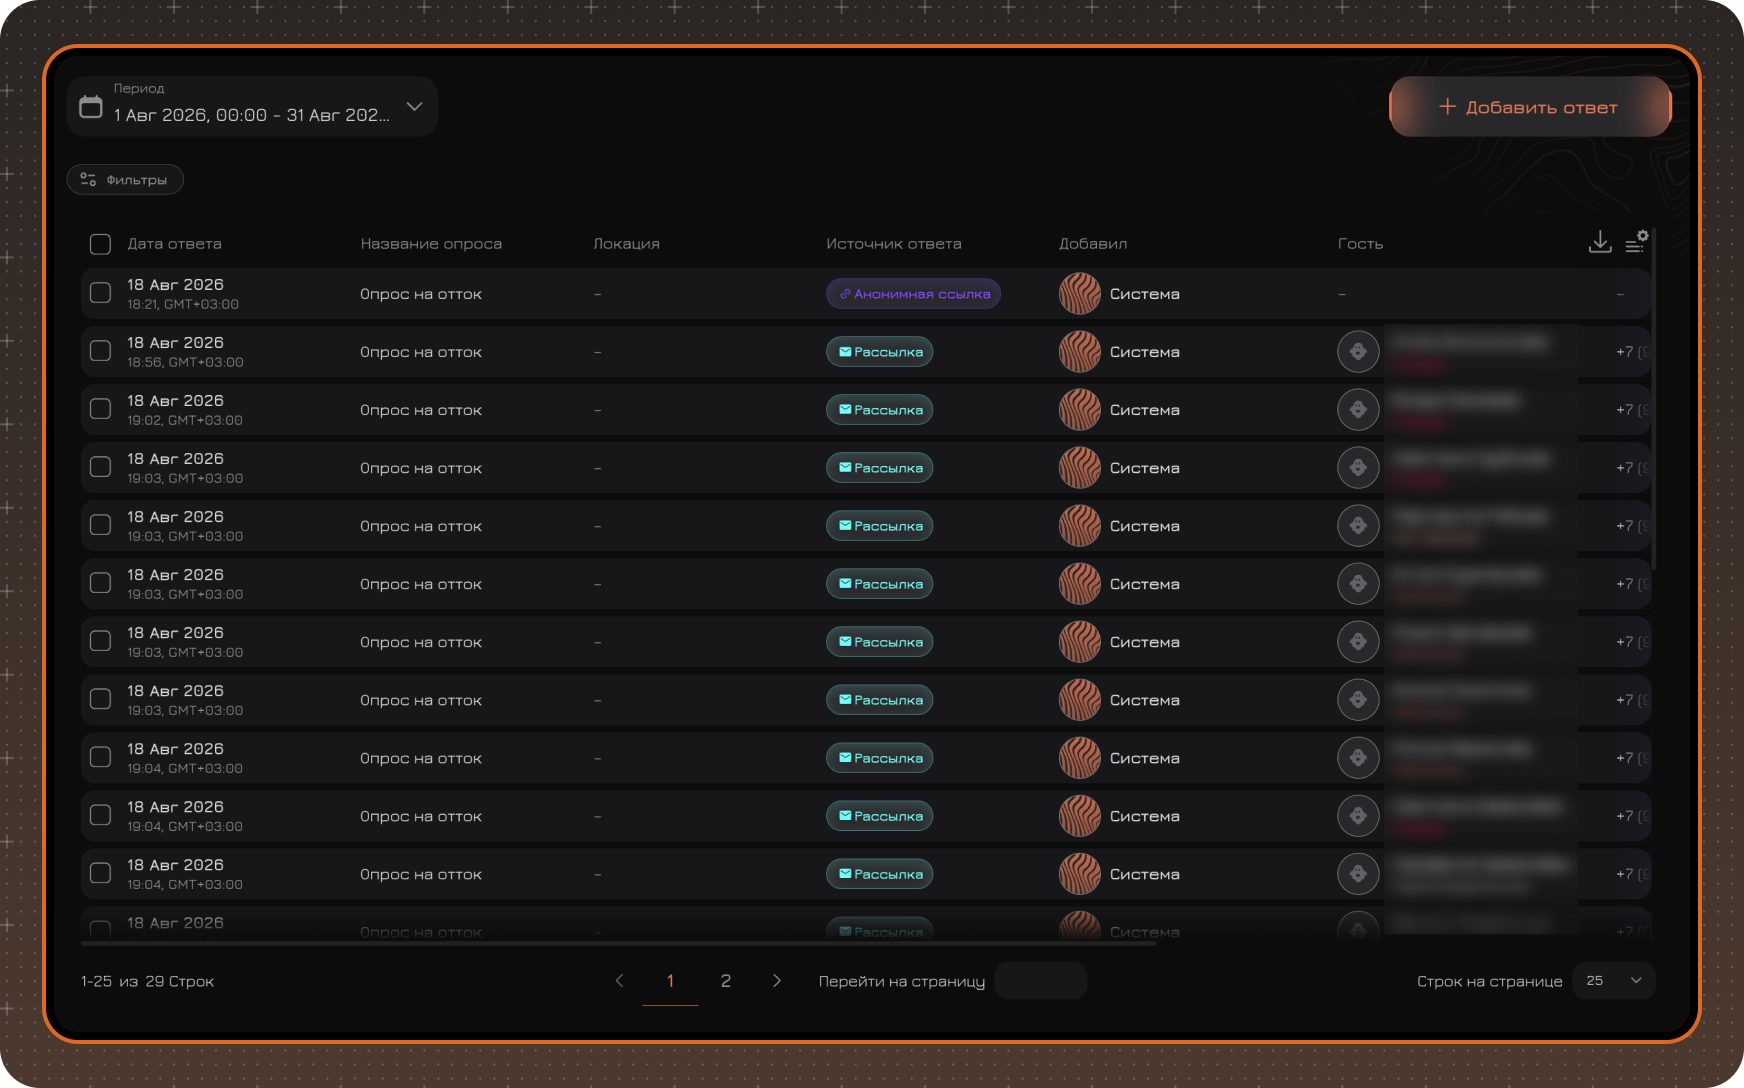
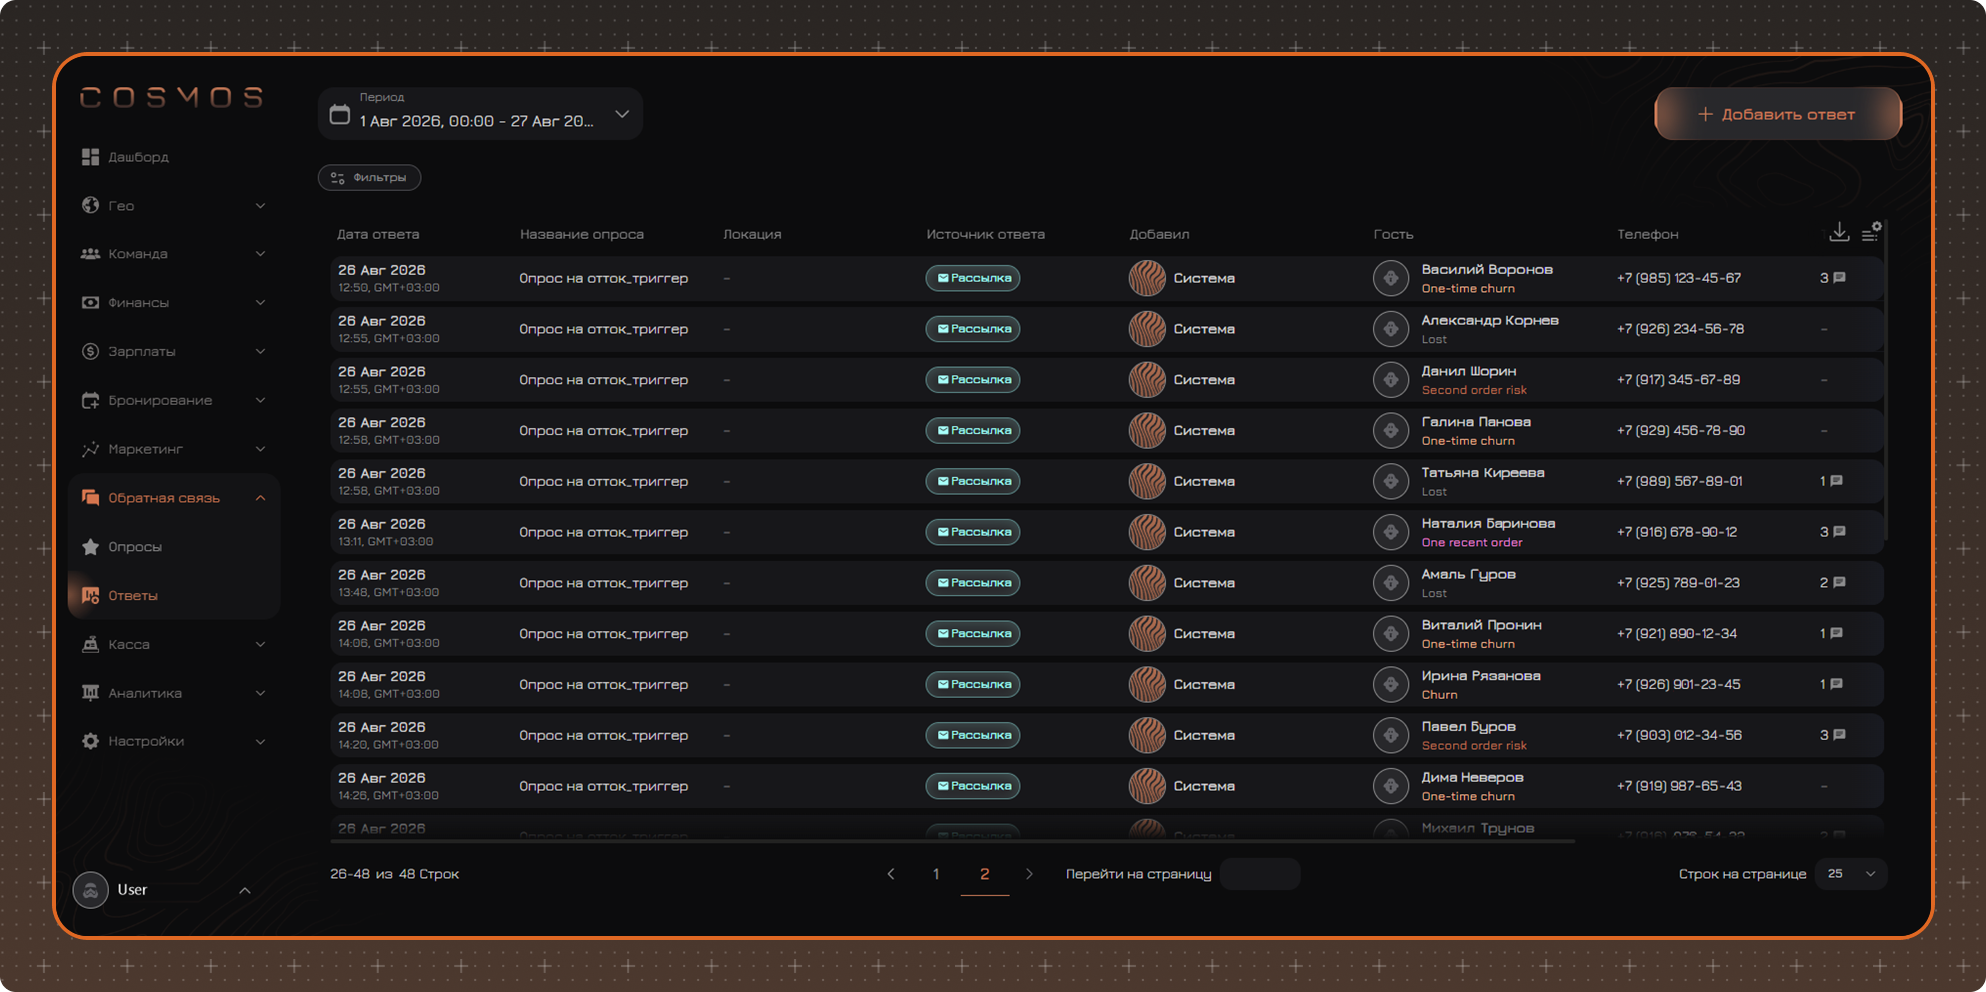
Feedback: колонки гостя и настройки таблицы в «Ответах» RU и EN (CIMP-293) (#88)

diff --git a/content/ru/feedback/responses/responses-info.md b/content/ru/feedback/responses/responses-info.md
@@ -15,35 +15,59 @@ updatedAt: 2026-08-24
 
 [[delimiter rows=1]]
 
-## Основные данные ответа
+## Настройки таблицы
 
-**В таблице могут отображаться следующие данные:**
+Для изменения набора отображаемых колонок нажмите кнопку настройки таблицы в правом верхнем углу.
 
-- **Номер ответа**
+В открывшейся панели можно:
+
+✔ Выбрать отображаемые колонки  
+✔ Изменить порядок колонок — перетащите колонку в списке за значок слева от ее названия  
+✔ Закрепить нужные колонки — нажмите на значок булавки справа от названия колонки. Закрепленные колонки перемещаются в начало таблицы  
+✔ Вернуть настройки по умолчанию с помощью команды **Сбросить к начальным значениям**
+
+![Настройки таблицы](/ru/images/surveys/responses/response-columns.png)
+
+[[delimiter rows=1]]
+
+По умолчанию в таблице отображаются следующие колонки:
+
 - **Дата ответа** — дата и время отправки ответа респондентом.
 - **Название опроса**
 - **Локация** — локация, связанная с ответом. Автоматически определяется для ответов из автоматической рассылки по триггеру `Закрытый чек`; в остальных случаях может отсутствовать.
 - **Источник ответа** — показывает, как ответ попал в систему: `Рассылка`, `Публичная ссылка` или `Введен вручную`.
-- **Канал** — канал доставки, если опрос отправлялся через рассылку. Для публичной ссылки и ручного ввода поле может быть пустым.
 - **Добавил** — для ручного ответа показывает сотрудника, который внес данные.
+- **Гость**
+- **Телефон**
 - **Текстовые ответы** — количество текстовых комментариев в ответе, включая текст в поле `Свой вариант`.
 - **Оценки** — оценки, оставленные в вопросах типа `Оценка`.
-- **Устройство** — `Мобильное` или `Компьютер`, в зависимости от устройства, с которого был отправлен ответ.
 
-**Для ответов, полученных после автоматической рассылки, могут отображаться:**
+Дополнительно можно включить следующие колонки. При включении они отображаются в таблице в соответствии с порядком колонок в настройках:
 
-- **Триггер** — событие, после которого была отправлена рассылка;
-- **Дата триггера** — дата и время события;
-- **Столы** — столы, связанные с событием;
-- **Обслужил** — сотрудники, обслуживавшие гостя.
+- **Ответ**
+- **Канал** — канал доставки, если опрос отправлялся через рассылку. Для публичной ссылки и ручного ввода поле может быть пустым.
+- **Триггер** — событие, после которого была отправлена рассылка.
+- **Дата триггера** — дата и время события.
+- **Столы** — столы, связанные с событием.
+- **Обслуживал** — сотрудники, обслуживавшие гостя.
+- **E-mail**
+- **Пол**
+- **Дата рождения**
+- **Любимая локация**
+- **Последний визит**
+- **Всего денег**
+- **Всего чеков**
+- **Последний чек**
+- **Средний чек**
+- **Средний чек в час**
+- **Карта лояльности**
+- **Скидка**
+- **Дата регистрации в программе лояльности**
+- **Устройство** — **Мобильный** или **Десктоп**, в зависимости от устройства, с которого был отправлен ответ.
 
-**Если ответ связан с профилем гостя, могут отображаться:**
-
-- **Имя и Фамилия**;
-- **Телефон**;
-- **Email**;
-- **Пол**;
-- **Дата рождения**.
+[[info type=custom color=#E06823]]
+**Триггер**, **Дата триггера**, **Столы** и **Обслуживал** заполняются только для ответов, полученных после автоматической рассылки. Колонки с данными гостя заполняются, если ответ связан с профилем гостя.
+[[/info]]
 
 ## Фильтры ответов
 
@@ -118,15 +142,16 @@ updatedAt: 2026-08-24
 
 ## Удаление ответа
 
+Удалить ответы можно двумя способами:
+
+- отметьте один или несколько ответов флажками слева и нажмите **Удалить** на плашке, которая появится над таблицей справа;
+- нажмите правой кнопкой мыши на строку ответа и выберите **Удалить**.
+
 ![ответы](/ru/images/surveys/responses/response5.png)
 
 [[delimiter rows=1]]
 
-Чтобы удалить ответ:
-
-1. Найдите и выделите ответ в таблице.
-2. Выберите действие `Удалить`.
-3. Подтвердите удаление.
+Подтвердите удаление в окне подтверждения.
 
 После удаления ответ получает системный статус `Deleted` и больше не используется в рабочих данных.
 
@@ -135,3 +160,7 @@ updatedAt: 2026-08-24
 [[info type=custom color=#E06823]]
 Удаление ответа не делает персональную ссылку доступной для повторного прохождения. При повторном открытии такой ссылки респондент по-прежнему увидит сообщение, что опрос уже пройден.
 [[/info]]
+
+[[delimiter rows=3]]
+
+---

diff --git a/content/en/feedback/responses/responses-info.md b/content/en/feedback/responses/responses-info.md
@@ -11,43 +11,69 @@ The **Responses** section is used for viewing and analyzing survey results. Resp
 - Within a survey, only responses for that survey are displayed.
 - The general **Responses** table displays responses for all surveys available to you.
 
-<!-- ![responses](/ru/images/surveys/responses/response1.png) -->
+![responses](/en/images/surveys/responses/response1-en.png)
 
 [[delimiter rows=1]]
 
-## Basic Response Data
+## Table Settings
 
-**The table can display the following data:**
+To change the displayed columns, click the table settings button in the upper-right corner.
 
-- **Response number**
-- **Response date** — date and time the response was submitted by the respondent.
-- **Survey name**
+In the panel that opens, you can:
+
+✔ Select the columns to display  
+✔ Change the column order — drag a column in the list by the icon to the left of its name  
+✔ Pin the required columns — click the pin icon to the right of the column name. Pinned columns move to the beginning of the table  
+✔ Restore the default settings using **Reset to Default**
+
+![Table Settings](/en/images/surveys/responses/response-columns-en.png)
+
+[[delimiter rows=1]]
+
+By default, the table displays the following columns:
+
+- **Response At** — date and time the response was submitted by the respondent.
+- **Survey Name**
 - **Location** — the location associated with the response. Automatically determined for responses from an automatic mailing based on the `Closed check` trigger; in other cases it may be absent.
-- **Response source** — shows how the response entered the system: `Mailing`, `Public link` or `Entered manually`.
-- **Channel** — delivery channel, if the survey was sent via mailing. For a public link and manual entry, the field may be empty.
-- **Added by** — for a manual response, shows the employee who entered the data.
-- **Text responses** — the number of text comments in the response, including text in the `Custom option` field.
+- **Response Source** — shows how the response entered the system: `Mailing`, `Public link` or `Entered manually`.
+- **Added By** — for a manual response, shows the employee who entered the data.
+- **Guest**
+- **Phone**
+- **Text Responses** — the number of text comments in the response, including text in the `Custom option` field.
 - **Ratings** — ratings left in `Rating` type questions.
-- **Device** — `Mobile` or `Computer`, depending on the device from which the response was submitted.
 
-**For responses received after an automatic mailing, the following may be displayed:**
+The following columns can be enabled additionally. When enabled, they appear in the table according to the column order in the settings:
 
-- **Trigger** — the event after which the mailing was sent;
-- **Trigger date** — date and time of the event;
-- **Tables** — tables associated with the event;
-- **Served by** — employees who served the guest.
+- **Response**
+- **Channel** — delivery channel, if the survey was sent via mailing. For a public link and manual entry, the field may be empty.
+- **Trigger** — the event after which the mailing was sent.
+- **Triggered At** — date and time of the event.
+- **Tables** — tables associated with the event.
+- **Served By** — employees who served the guest.
+- **E-mail**
+- **Sex**
+- **Birthday**
+- **Favorite Location**
+- **Last Visit**
+- **Total Paid**
+- **Checks**
+- **Last Check**
+- **Avg Check**
+- **Avg Check Per Hour**
+- **Loyalty Number**
+- **Loyalty Discount**
+- **Loyalty Registration**
+- **Device** — **Mobile** or **Desktop**, depending on the device from which the response was submitted.
 
-**If the response is linked to a guest profile, the following may be displayed:**
-
-- **First and Last Name**;
-- **Phone**;
-- **Email**;
-- **Gender**;
-- **Date of birth**.
+[[info type=custom color=#E06823]]
+**Trigger**, **Triggered At**, **Tables** and **Served By** are filled in only for responses received after an automatic mailing. Guest data columns are filled in if the response is linked to a guest profile.
+[[/info]]
 
 ## Response Filters
 
-<!-- ![responses](/ru/images/surveys/responses/response2.png) -->
+![responses](/en/images/surveys/responses/response2-en.png)
+
+[[delimiter rows=1]]
 
 ### Period
 
@@ -74,7 +100,7 @@ The **Period** filter limits responses by the date they were received. The maxim
 
 To open detailed information, click on the response row.
 
-<!-- ![responses](/ru/images/surveys/responses/response3.png) -->
+![responses](/en/images/surveys/responses/response3-en.png)
 
 [[delimiter rows=1]]
 
@@ -97,7 +123,7 @@ The details window may display:
 
 Manual addition is used when an employee conducts a survey on behalf of a guest, for example over the phone.
 
-<!-- ![responses](/ru/images/surveys/responses/response4.png) -->
+![responses](/en/images/surveys/responses/response4-en.png)
 
 [[delimiter rows=1]]
 
@@ -118,15 +144,16 @@ If an active guest profile is not found by the specified phone number, the syste
 
 ## Deleting a Response
 
-<!-- ![responses](/ru/images/surveys/responses/response5.png) -->
+Responses can be deleted in two ways:
+
+- select one or more responses with the checkboxes on the left and click **Delete** in the bar that appears above the table on the right;
+- right-click the response row and select **Delete**.
+
+![responses](/en/images/surveys/responses/response5-en.png)
 
 [[delimiter rows=1]]
 
-To delete a response:
-
-1. Find and select the response in the table.
-2. Select the action `Delete`.
-3. Confirm the deletion.
+Confirm the deletion in the confirmation window.
 
 After deletion, the response receives the system status `Deleted` and is no longer used in working data.
 
@@ -135,3 +162,7 @@ The system also reduces the number of responses for the survey and recalculates 
 [[info type=custom color=#E06823]]
 Deleting a response does not make the personal link available for retaking. When this link is opened again, the respondent will still see a message that the survey has already been completed.
 [[/info]]
+
+[[delimiter rows=3]]
+
+---
